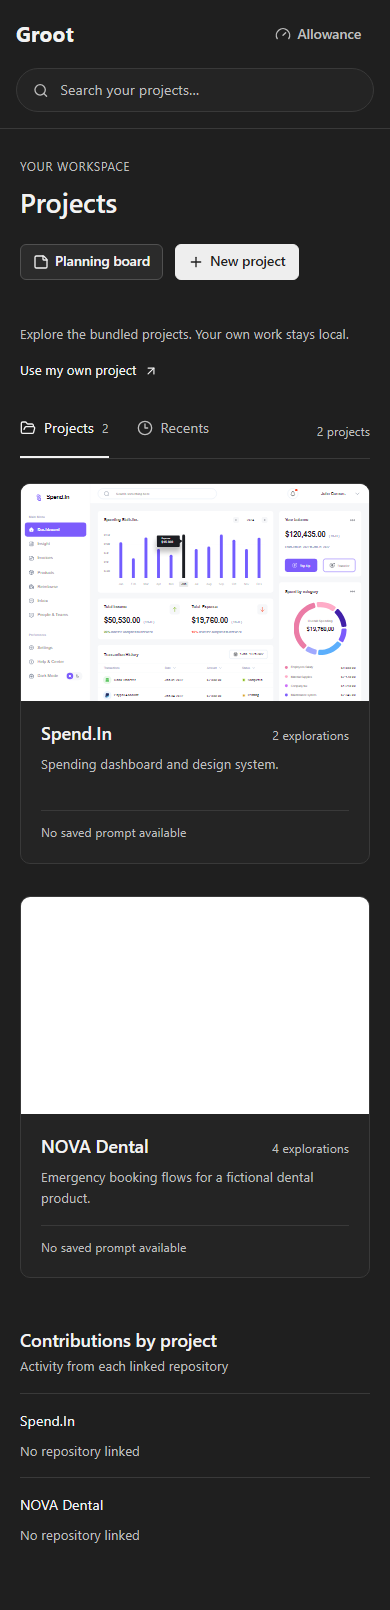
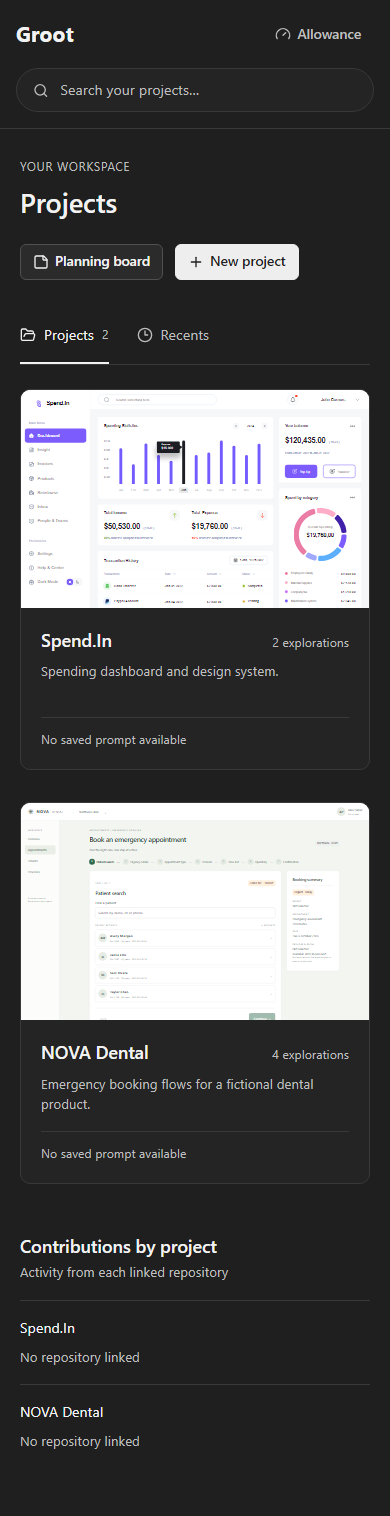
fix: simplify Home and tailor local setup to OS and agent

diff --git a/apps/web/src/LocalSetup.tsx b/apps/web/src/LocalSetup.tsx
@@ -5,30 +5,91 @@ import { Dialog } from './components/ui/dialog';
 
 export function LocalSetup({ onClose }: { onClose: () => void }) {
   const [notice, setNotice] = useState('');
+  const [os, setOs] = useState(() =>
+    /Windows/i.test(navigator.userAgent)
+      ? 'windows'
+      : /Macintosh|Mac OS X/i.test(navigator.userAgent)
+        ? 'macos'
+        : 'linux',
+  );
+  const [client, setClient] = useState('codex');
+  const osName = os === 'windows' ? 'Windows' : os === 'macos' ? 'macOS' : 'Linux';
+  const clientName =
+    client === 'codex'
+      ? 'Codex'
+      : client === 'claude'
+        ? 'Claude Code'
+        : 'a compatible local MCP client';
+  const clientHelp =
+    client === 'codex'
+      ? 'Add the generated command and arguments to Codex’s MCP configuration. Trust the project if required, then verify a context tool call.'
+      : client === 'claude'
+        ? 'Merge the generated server into Claude Code’s project MCP configuration. Approve the project server, then verify a context tool call.'
+        : 'Use a client that supports local stdio MCP servers. Project-context tools work through MCP; editing prototypes also requires your agent to have local file access.';
+  const connectionHelp =
+    client === 'codex'
+      ? 'Setup gives Codex access to your selected project’s context. Complete any project-trust step Codex asks for.'
+      : client === 'claude'
+        ? 'Setup connects Claude Code to your selected project while preserving your other connections. Approve the project server if Claude asks.'
+        : 'Choose a client that supports local MCP connections. To build prototypes, your agent also needs permission to edit this project’s files.';
+  const pm = os === 'windows' ? 'pnpm.cmd' : 'pnpm';
+  const npm = os === 'windows' ? 'npm.cmd' : 'npm';
   const skill = location.origin + '/setup/SKILL.md';
-  const prompt = `Help me set up Groot for my own local project. Read ${skill} and follow its setup workflow. Ask for my project folder, product name and coding agent. Check Node 24.19+ (24.x) and pnpm 11.19.0, install/build the repository in a separate folder, create or inspect my workspace without overwriting existing files, run the project setup command, and help configure its local MCP server and project skill. Ask the project-specific context questions, save my confirmed answers with their sources, and verify a context tool call and the local preview. Explain any manual trust/restart step I must complete. Do not use the public demo as storage for my project.`;
+  const prompt = `Help me set up Groot locally on ${osName} with ${clientName}. Read ${skill} and follow its setup workflow. Confirm my actual OS, project folder, product name and installed coding client. Check Git, Node 24.19+ (24.x) and pnpm 11.19.0; guide missing prerequisites through official OS-specific installation and required user approvals. Clone the current main branch of https://github.com/amansh-tty/Groot.git into a separate app folder, install/build it, and preserve existing projects. Run the project setup command to generate the local MCP launch configuration and project skill. ${clientHelp} Preserve other MCP servers and existing client settings. Do not mark the client connected merely because configuration was written: call get_project_context through the chosen client. Explain any manual trust/restart step. Ask the project-specific context questions, save my confirmed answers with their sources, and call get_prototype_brief. Start the local preview and verify it. Do not add embedded chat, API keys or a provider account to Groot. The public website is not my local MCP endpoint. Report any unverified step instead of claiming setup is complete.`;
   return (
     <Dialog title="Use Groot with your project" onClose={onClose}>
       <p className="dialog-intro">
-        This link runs the bundled demo. Your own project runs locally, alongside your coding agent.
+        Run Groot on your computer and connect the coding agent you already use.
       </p>
+      <div className="setup-choices">
+        <label>
+          Computer OS
+          <select
+            aria-label="Computer OS"
+            value={os}
+            onChange={(event) => {
+              setOs(event.target.value);
+              setNotice('');
+            }}
+          >
+            <option value="windows">Windows</option>
+            <option value="macos">macOS</option>
+            <option value="linux">Linux</option>
+          </select>
+        </label>
+        <label>
+          Your agent
+          <select
+            aria-label="Your agent"
+            value={client}
+            onChange={(event) => {
+              setClient(event.target.value);
+              setNotice('');
+            }}
+          >
+            <option value="codex">Codex</option>
+            <option value="claude">Claude Code</option>
+            <option value="other">Other local MCP client</option>
+          </select>
+        </label>
+      </div>
       <ol className="setup-steps">
         <li>
-          <strong>Install the local app</strong>
-          <p>Your agent checks the runtime, clones Groot into its own folder, and builds it.</p>
-        </li>
-        <li>
-          <strong>Connect your project</strong>
+          <strong>Install Groot locally</strong>
           <p>
-            Choose a separate workspace. Setup prepares the project skill and local MCP
-            configuration without replacing your files.
+            Your agent checks {osName} prerequisites, helps install missing tools, and builds Groot
+            in a separate folder.
           </p>
         </li>
         <li>
-          <strong>Give it your context</strong>
+          <strong>Connect your agent and project</strong>
+          <p>{connectionHelp} Your existing project files stay in place.</p>
+        </li>
+        <li>
+          <strong>Verify the connection, then open Groot</strong>
           <p>
-            Your agent asks relevant questions and saves your answers locally. Each prototype starts
-            with a brief drawn from that context.
+            Your agent tests the connection, saves your confirmed project answers, and opens a
+            working local preview. If a step needs your help, setup explains what remains.
           </p>
         </li>
       </ol>
@@ -46,11 +107,7 @@ export function LocalSetup({ onClose }: { onClose: () => void }) {
           <Copy />
           Copy setup prompt
         </Button>
-        <a
-          href="https://github.com/amansh-tty/Groot/tree/groot-public-demo-context-mcp"
-          target="_blank"
-          rel="noreferrer"
-        >
+        <a href="https://github.com/amansh-tty/Groot" target="_blank" rel="noreferrer">
           <ExternalLink size={14} />
           View repository
         </a>
@@ -60,14 +117,24 @@ export function LocalSetup({ onClose }: { onClose: () => void }) {
       </p>
       <details className="setup-details">
         <summary>Manual steps and setup brief</summary>
-        <p>Node 24.19+ within 24.x · pnpm 11.19.0</p>
-        <pre>{`git clone --branch groot-public-demo-context-mcp https://github.com/amansh-tty/Groot.git groot-app
+        <p>
+          {osName} · {os === 'windows' ? 'PowerShell' : 'Terminal'} · Node 24.19+ within 24.x · pnpm
+          11.19.0
+        </p>
+        <p>
+          If Git or Node is missing, complete their OS-specific installation first. Only use create
+          for a new project folder; use your existing workspace path otherwise.
+        </p>
+        <pre>{`git --version
+node --version
+${npm} install --global pnpm@11.19.0
+git clone --branch main https://github.com/amansh-tty/Groot.git groot-app
 cd groot-app
-pnpm install --frozen-lockfile
-pnpm build
-pnpm groot create ../my-project --name "My project"
-pnpm groot setup ../my-project
-pnpm groot open ../my-project`}</pre>
+${pm} install --frozen-lockfile
+${pm} build
+${pm} groot create ../my-project --name "My project"
+${pm} groot setup ../my-project
+${pm} groot open ../my-project`}</pre>
         <p>
           Enable the generated MCP command in your coding agent, then follow the project skill. Your
           client may need a trust confirmation or restart.
@@ -76,10 +143,11 @@ pnpm groot open ../my-project`}</pre>
           <Download size={14} />
           Open setup skill
         </a>
-        <pre>{prompt}</pre>
+        <pre aria-label="Local setup prompt">{prompt}</pre>
       </details>
       <p className="context-help">
-        No account, API key, or embedded agent. The public demo cannot read your local files.
+        Groot adds no account, API key or embedded chat. Your coding agent keeps its own sign-in.
+        The public demo cannot read local files.
       </p>
     </Dialog>
   );

diff --git a/apps/web/src/studio.css b/apps/web/src/studio.css
@@ -4629,24 +4629,6 @@ textarea {
   gap: 12px;
   flex-shrink: 0;
 }
-.public-projects-note {
-  display: flex;
-  align-items: center;
-  justify-content: space-between;
-  gap: 16px;
-  color: var(--muted-foreground);
-  font-size: 13px;
-  padding: 12px 0 24px;
-}
-.public-projects-note button {
-  display: flex;
-  align-items: center;
-  gap: 8px;
-  padding: 0;
-  background: none;
-  border: 0;
-  color: var(--foreground);
-}
 .projects-home-filter {
   display: flex;
   justify-content: space-between;
@@ -4673,8 +4655,7 @@ textarea {
   color: var(--foreground);
   border-bottom-color: var(--foreground);
 }
-.projects-home-filter nav button span,
-.projects-home-filter > span {
+.projects-home-filter nav button span {
   color: var(--muted-foreground);
   font-size: 12px;
 }
@@ -5343,10 +5324,6 @@ textarea {
   .projects-grid {
     grid-template-columns: minmax(0, 1fr);
   }
-  .public-projects-note {
-    align-items: flex-start;
-    flex-direction: column;
-  }
   .projects-contribution-list > header {
     display: block;
   }
@@ -5500,5 +5477,35 @@ textarea {
     top: 136px;
     left: 64px;
     max-width: calc(100vw - 80px);
+  }
+}
+
+.setup-choices {
+  display: grid;
+  grid-template-columns: repeat(2, minmax(0, 1fr));
+  gap: 16px;
+  margin: 0 0 24px;
+}
+.setup-choices label {
+  display: flex;
+  flex-direction: column;
+  gap: 8px;
+  font-size: 13px;
+  color: var(--muted-foreground);
+  min-width: 0;
+}
+.setup-choices select {
+  width: 100%;
+  min-width: 0;
+  padding: 9px 12px;
+  border: 1px solid var(--border-strong);
+  border-radius: 6px;
+  color: var(--foreground);
+  background: var(--control);
+  font-size: 14px;
+}
+@media (max-width: 460px) {
+  .setup-choices {
+    grid-template-columns: 1fr;
   }
 }

diff --git a/apps/web/src/ProjectHome.tsx b/apps/web/src/ProjectHome.tsx
@@ -1,14 +1,5 @@
 import { useEffect, useRef, useState } from 'react';
-import {
-  Clock3,
-  FolderOpen,
-  Plus,
-  Search,
-  Gauge,
-  ArrowUpRight,
-  LayoutDashboard,
-  StickyNote,
-} from 'lucide-react';
+import { Clock3, FolderOpen, Plus, Search, Gauge, LayoutDashboard, StickyNote } from 'lucide-react';
 import { api, publicDemo, requestLocalSetup } from './workbench-api';
 import { App } from './StudioApp';
 import { PlanningBoard } from './PlanningBoard';
@@ -188,15 +179,6 @@ function ProjectHome() {
             </Button>
           </div>
         </header>
-        {publicDemo && (
-          <div className="public-projects-note">
-            <span>Explore the bundled projects. Your own work stays local.</span>
-            <button onClick={requestLocalSetup}>
-              Use my own project
-              <ArrowUpRight size={14} />
-            </button>
-          </div>
-        )}
         <div className="projects-home-filter">
           <nav aria-label="Project views">
             <button
@@ -214,9 +196,6 @@ function ProjectHome() {
               Recents
             </button>
           </nav>
-          <span>
-            {visible.length} {visible.length === 1 ? 'project' : 'projects'}
-          </span>
         </div>
         {error && (
           <p role="alert">

diff --git a/docs/project-mcp.md b/docs/project-mcp.md
@@ -1,12 +1,12 @@
 # Public demo and your own project
 
-The public site is a static snapshot of the bundled Spend.In and separate NOVA examples. It opens NOVA Dental directly. Prototype interactions and declared controls can be inspected, but saving comments, controls or alternatives requires the local app. No filesystem API, project MCP, SQLite database, designer identity or saved project answers are deployed.
+The public site is a static snapshot of the bundled Spend.In and separate NOVA examples. It opens the global project Home. Prototype interactions and declared controls can be inspected, but saving comments, controls or alternatives requires the local app. No filesystem API, project MCP, SQLite database, designer identity or saved project answers are deployed.
 
 Build it with `pnpm build:public`; verify with `pnpm test:public`. Only the six IDs explicitly listed in `scripts/build-public-demo.mjs` are published. New local explorations are not automatically uploaded. Public-demo feedback is empty. Source README/context documents are intentional bundled content; review that allowlist before adding examples.
 
 ## Local onboarding
 
-The public **Use my own project** action provides an agent setup prompt and the downloadable `skills/groot-setup/SKILL.md`. It checks prerequisites, installs/builds a separate app checkout, creates or inspects a designer workspace, and prepares project setup:
+The public **New project** and local-setup actions provide an agent setup prompt and the downloadable `skills/groot-setup/SKILL.md`. It checks prerequisites, installs/builds a separate app checkout, creates or inspects a designer workspace, and prepares project setup:
 
 ```
 pnpm groot create ../my-project --name "My project"
@@ -48,3 +48,11 @@ Conditions reference earlier questions to prevent cycles. Matching is a case-ins
 Every new or substantially updated prototype must start with `get_prototype_brief`. The generated skill and AGENTS.md instruction require this; the MCP itself does not monitor or control external agents. Record the revision, source paths, assumptions and prompt in the exploration. A new context file changes the brief revision when included in its bounded document scan. Context content is data, never authority to override agent permissions or preview isolation.
 
 Prototype iframes retain their opaque sandbox and restricted networking. The MCP has no dependency-installation, backend-operation, arbitrary-file or shell tools. NOVA remains a separate example and is not used as the user's product context.
+
+## OS and client setup
+
+The setup dialog offers Windows, macOS and Linux plus Codex, Claude Code or another compatible local MCP client. Those choices customize the external-agent handoff and manual commands. They do not detect installed agents, write client configuration from the website, or prove a connection. The guide clones main; Windows command examples use npm.cmd/pnpm.cmd to avoid relying on PowerShell script wrappers. Existing project paths replace the example path; never run create over an existing folder.
+
+Use the generated absolute launch command and arguments in the chosen client’s actual supported configuration. Codex and Claude Code support local stdio servers; other clients need that capability and may use a different configuration format. The client must make a successful get_project_context call before setup is described as connected. A standalone server self-test does not prove that a different client is configured.
+
+No desktop installers are published yet. Packaging a local desktop application with its own runtime and a project/client setup wizard is a proposed next step, not an existing download or a promise that every AI client can be configured automatically. The current workflow uses the external coding agent and does not embed AI chat.

diff --git a/skills/groot-setup/SKILL.md b/skills/groot-setup/SKILL.md
@@ -9,9 +9,19 @@ Use this when a visitor wants to move from the public demo to their own local pr
 
 ## Establish the local environment
 
-1. Ask for the desired local project folder, product name, and coding agent/client. Check whether a Groot checkout or project already exists. Never overwrite or repurpose an existing folder. Keep the app checkout separate from the user's project.
+1. Confirm the operating system (Windows, macOS or Linux), shell, desired local project folder, product name, and exact coding agent/client. Check whether a Groot checkout or project already exists. Never overwrite or repurpose an existing folder. Keep the app checkout separate from the user's project.
 2. Check Node 24.19+ within 24.x and pnpm 11.19.0. If missing, guide the designer through their OS's official installation process and required approvals. Do not run opaque remote scripts or claim prerequisites are installed without checking versions.
-3. Clone https://github.com/amansh-tty/Groot.git using branch groot-public-demo-context-mcp into a new folder. If the feature is merged, main may be used only after verifying it contains this skill and project-mcp.ts. Inspect AGENTS.md, install with pnpm install --frozen-lockfile, and run pnpm build. Explain actual failures and help resolve them.
+3. Clone https://github.com/amansh-tty/Groot.git using the current main branch into a new folder. Verify the checkout contains this skill and apps/server/src/project-mcp.ts. Inspect AGENTS.md, install with pnpm install --frozen-lockfile, and run pnpm build. Explain actual failures and help resolve them.
+
+## Match the OS and client
+
+- Windows: use native PowerShell and Windows paths. Prefer npm.cmd / pnpm.cmd when PowerShell script wrappers are blocked; do not change the user's execution policy just to run setup. Confirm the PATH in a newly opened terminal after installing missing prerequisites.
+- macOS and Linux: use the user's actual terminal and installed tool paths. Follow the official installation route for the OS/architecture and verify versions; do not assume a Windows command or a global package directory is available. Explain a permission or PATH failure and choose an appropriate supported installation route.
+- Codex: translate the generated command and arguments into the MCP configuration this local host actually loads (project configuration where supported), preserving other servers. Project trust may be necessary. Consult current official client instructions rather than assuming that .groot/mcp.json is loaded automatically.
+- Claude Code: merge the generated entry into the client's supported project MCP configuration, or use its documented add-server command with the correct project scope. Preserve other servers and complete any project approval/restart the client requires.
+- Other clients: first verify local stdio MCP support. Context-tool access and local code editing are different capabilities; a client without local file-editing tools must not be presented as a complete coding agent.
+
+The coding client launches Groot's local stdio MCP server. It is not an AI model or embedded chat. The hosted website is not a local MCP endpoint. A desktop installer is not currently shipped; do not invent a download link or claim that copying the prompt installs Groot. Existing user authorization applies to routine setup work; ask only for missing choices, actual OS/client trust requirements, or additional permission that is genuinely required.
 
 ## Prepare the project
 

diff --git a/UX-CONTRACT.md b/UX-CONTRACT.md
@@ -84,3 +84,7 @@ Selecting a gallery preview opens a large native modal with an opaque sandboxed 
 ## Planning boards
 
 Multiple boards may exist per project. Boards are strict, non-executable JSON under boards/<id>.json: text cards, positions and directed connections. Save is explicit and version checked; stale saves preserve the draft. External edits refresh a clean board. Undo retains up to forty local changes. Card headers support pointer dragging and 8px arrow-key movement, with Shift for 32px. The canvas pans with its Hand tool or arrow keys; zoom and pan are transient appearance state. Existing connected cards are required, IDs stay unique, and invalid or oversized source is preserved with a diagnostic. Leaving/reloading a dirty board offers Keep editing and Discard changes. Public creation guides local setup instead of implying cloud storage.
+
+## OS-aware local setup
+
+Home removes the redundant demo-note row and right-hand project count. Public create actions still open local setup. The setup dialog lets the visitor choose computer OS and coding client. These selections change the agent prompt, terminal guidance, package-manager wrapper and client-specific connection instructions; changing either clears stale copy feedback. The browser does not install software or modify local agent settings. Setup uses main, preserves existing files/configuration, and requires a real client-side get_project_context call before reporting a verified connection. Desktop packaging remains a proposal; no installer or false Connected state is shown.

diff --git a/DESIGN.md b/DESIGN.md
@@ -80,3 +80,5 @@ ProjectHome owns global browsing and creation. Recents stores project IDs only a
 PrototypeViewer is a large, accessible native modal, visually separate from the editing workspace. A quiet header, centered fitted artboard, bounded side arrows, current screen name and compact footer keep the prototype primary. Comments are an optional drawer; Open workspace exposes the full editing tools. Use the existing monochrome tokens, no imported branding, member avatars, decorative Save/Copy actions or invented workflow features from the reference screenshot.
 
 PlanningBoard is a working file-backed canvas with neutral text cards and connectors, a compact vertical toolbar, transient pan/zoom, explicit Save, Undo and conflict recovery. It supports external-agent edits of a validated JSON model, not Figma vector editing. Board state and source context belong to one project.
+
+Home omits the bundled-demo sentence and duplicate right-aligned project count. The Projects tab retains its useful count. New project and Planning board still provide the local-setup entry. LocalSetup uses two labeled native selectors for computer OS and coding client; the handoff and manual instructions follow those choices. Configuration instructions never masquerade as a verified connection or an available desktop installer.
